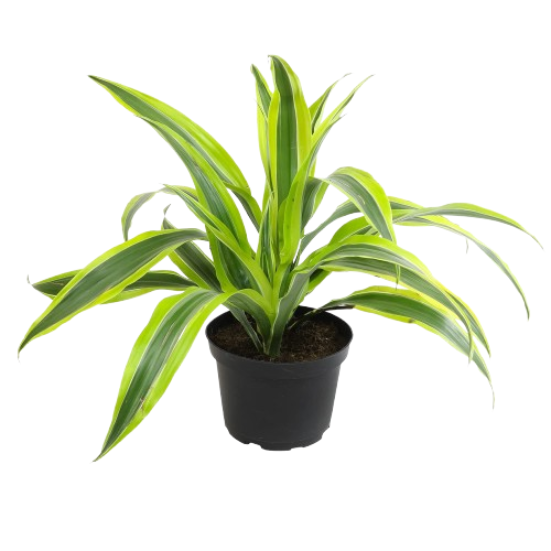
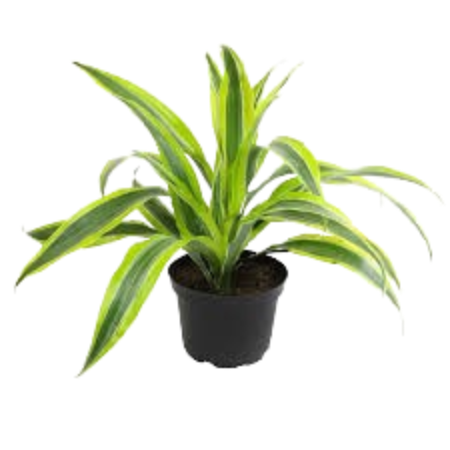
Made a plant container and button to make and store multiple plants. Want to add water specific to each plant and when a task is completed a way to maybe choose what plant to water. For now iwll make it water all

diff --git a/ClassProjects/SunyPoly/proj5/js-css/old_v2_proj5.js b/ClassProjects/SunyPoly/proj5/js-css/old_v2_proj5.js
@@ -7,6 +7,15 @@ const inputBox = document.getElementById("input-box");
 const listContainer = document.getElementById("task-list");
 const inputFile = document.getElementById("input-file");
 
+//Plants
+const plant = document.getElementById("plant1");
+const plantDecayTime = 5-1;
+var plantUpdateFlag = false;
+var hasTask = false;
+var sepia = 0;
+var plantHealth = document.getElementById("waterCountOne").innerHTML;
+var firstRun = true;
+
 /////////////////////////////////////////////////
 // Event Listeners
 //
@@ -15,6 +24,36 @@ const inputFile = document.getElementById("input-file");
 /////////////////////////////////////////////////
 // Methods
 //
+
+function updatePlant() {
+	if(plantHealth > 0 && listContainer.hasChildNodes() ) {
+		//Check if Plant should be active
+		hasTask = false;
+		for(var i=0; i<listContainer.children.length; i++) {
+			if(listContainer.children[i].tagName === "LI") {
+				hasTask = true;
+			}
+		}
+		if(hasTask) {
+			//Get seconds since epoch
+			var nowSeconds = Math.floor(Date.now()/1000);
+
+			if(plantUpdateFlag === true || firstRun) {
+				plantUpdateFlag = false;
+				plant.name = nowSeconds + plantDecayTime;
+				firstRun = false;
+			}
+			//Make plant "sicker" every time task isn't done in time
+			else if(plant.name <= nowSeconds) {
+				plantUpdateFlag = true;
+				sepia += 0.25;
+				plant1.style.filter = 'sepia('+sepia+')';
+				plantHealth -= 25;
+				document.getElementById("waterCountOne").innerHTML = plantHealth;
+			}
+		}
+	}
+}
 
 //Add Task
 function addTask() {
@@ -51,13 +90,16 @@ function addTask() {
 		uploadBtn.innerHTML = "\u0055";
 		li.appendChild(uploadBtn);
 
+		//Updating Plant Stuff
+		plantUpdateFlag = true;
+
 		let timeDiff = new Date(dueDate) - new Date();
 		if(timeDiff > 0) {
 			setTimeout( () => alert(`Reminder: ${inputBox.value} is due!`), timeDiff);
 		}
 	}
 	inputBox.value = "";
-	saveTask();
+	saveData();
 }
 
 //Add/Remove Task
@@ -65,12 +107,12 @@ listContainer.addEventListener("click", function(e) {
 	//Check off a task that is unchecked
 	if(e.target.tagName === "LI" && !e.target.classList.contains("checked") ) {
 		e.target.classList.toggle("checked");
-		saveTask();
+		saveData();
 	}
 	//Remove Button
 	else if(e.target.tagName === "SPAN" && e.target.id === "remover" ) {
 		e.target.parentNode.remove();
-		saveTask();
+		saveData();
 	}
 	//Upload Button that checks for image before deleting task
 	else if( e.target.tagName === "LABEL" && e.target.id === "uploadBtn") {
@@ -80,8 +122,15 @@ listContainer.addEventListener("click", function(e) {
 			//Set a "image uploaded" variable in e
 			inputFile.addEventListener("change", (event) => {
 				if(event.target.files.length > 0) {
+					if(plantHealth < 100) {
+						plantHealth += 25;
+						sepia -= 0.25;
+						plant1.style.filter = 'sepia('+sepia+')';
+						document.getElementById("waterCountOne").innerHTML = plantHealth;
+					}
+
 					e.target.parentElement.remove();
-					saveTask();
+					saveData();
 					window.location.reload();
 				}
 			});
@@ -89,36 +138,18 @@ listContainer.addEventListener("click", function(e) {
 	}
 }, false);
 
-
-function addPlants() {
-	const plantContainer = document.getElementById("plants");
-	const plant = document.createElement("div");
-	plant.className = "plant";
-	plant.innerHTML = `<img src="./Images/Plant.png">`;
-	plantContainer.appendChild(plant);
-	savePlant();
-	showPlant();
-}
-
 //Save Task
-function saveTask() {
-	localStorage.setItem("taskData", listContainer.innerHTML);
-}
-function savePlant() {
-	localStorage.setItem("plantData", plantContainer.innerHTML);
+function saveData() {
+	localStorage.setItem("data", listContainer.innerHTML);
 }
 
 //Show Task
 function showTask() {
-	listContainer.innerHTML = localStorage.getItem("taskData");
-}
-function showPlant() {
-	plantContainer.innerHTML = localStorage.getItem("plantData");
+	listContainer.innerHTML = localStorage.getItem("data");
 }
 
 //Clear Tasks
-function clearScreen() {
-	window.location.reload();
+function clearTask() {
 	localStorage.clear();
 }
 
@@ -135,8 +166,9 @@ function uploadImage() {
 // "main"
 //
 
+setInterval(updatePlant, 1000);
 showTask();
-showPlant();
+
 
 
 

diff --git a/ClassProjects/SunyPoly/proj5/js-css/old_v2_proj5.css b/ClassProjects/SunyPoly/proj5/js-css/old_v2_proj5.css
@@ -25,46 +25,26 @@
 	align-items:center;
 	margin-bottom:20px;
 }
-/* Plants */
-.plant-maker{
-	display:flex;
-	align-items:center;
-	justify-content:center;
-	margin-bottom:10px;
-	align:auto;
+img {
+	display:block;
+	margin-left:auto;
+	margin-right:auto;
 }
-.plant-maker button {
-	display:flex;
-	align-items:center;
+.waterCounter {
 	width:100%;
 	max-width:100px;
-	margin-right:auto;
-	margin-left:auto;
-	border:none;
-	outline:none;
-	padding:10px;
+	background:#395a83;
+	border-radius:30px;
 	margin-bottom:25px;
-	background:#ff5945;
+	margin-left:auto;
+	margin-right:auto;
+	padding:10px;
 	color:#fff;
-	font-size:16px;
-	cursor:pointer;
-	border-radius:10px;
 }
-
-.plants {
-	min-height:100px;
+.waterCounter span {
 	display:flex;
-	flex-wrap:wrap;
 	justify-content:center;
-	background-color: rgba(255, 255, 255, 0.6)
 }
-.plant img {
-	cursor:pointer;
-	width:100px;
-	height:100px;
-}
-
-/* Task Buttons */
 .row{
 	display:flex;
 	align-items:center;
@@ -142,7 +122,7 @@
 
 #task-list li #uploadBtn{
 	position:absolute;
-	right:40px;
+	right:50px;
 	top:5px;
 	width:40px;
 	height:40px;
@@ -153,9 +133,31 @@
 	border-radius:50%;
 	cursor:pointer;
 }
+
 #task-list li #uploadBtn:hover{
 	background:#edeef0;
 }
+
+#task-list li #fileInput{
+	position:absolute;
+	right:100px;
+	top:5px;
+	width:40px;
+	height:40px;
+	font-size;22px;
+	color:#555;
+	line-height:40px;
+	text-align:center;
+	border-radius:50%;
+	cursor:progress;
+}
+
+#task-list li input {
+	display:none;
+}
+
+
+
 
 
 

diff --git a/ClassProjects/SunyPoly/proj5/old_v2_proj5.html b/ClassProjects/SunyPoly/proj5/old_v2_proj5.html
@@ -10,18 +10,18 @@
 	<div class="container">
 		<div class="todo-app">
 			<h2>To-Do List</h2>
-			<div class="plant-maker">
-				<button onclick="addPlants()">More Plants</button>
+			<img src="./Images/Plant.png" id="plant1" width="300" height="300">
+			<div class="waterCounter">
+				<span id="waterCountOne">100</span>
 			</div>
 			<div class="row">
 					<input type="text" id="input-box" placeholder="Add your text">
 					<button onclick="addTask()">Add</button>
-					<button onclick="clearScreen()">Reset</button>
+					<button onclick="clearTask()">Reset</button>
 			</div>
 			<div class="row">
 				<input type="datetime-local" id="due-date">
 			</div>
-			<div class="plants" id="plants"></div>
 			<div class="list-container">
 				<ol id="task-list"></ol>
 				<input type="file" accept="image/*" id="input-file" hidden>
